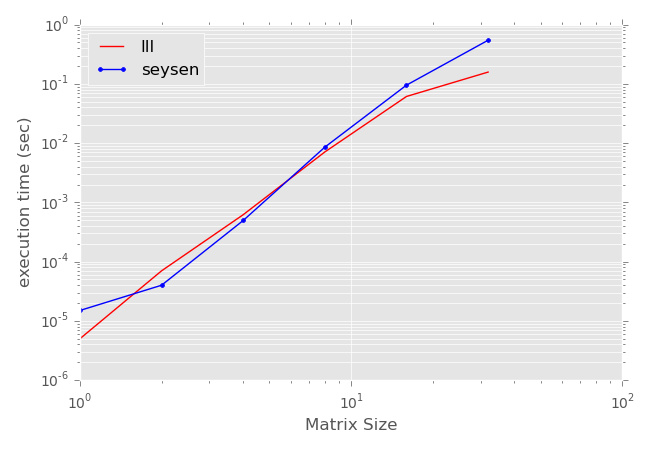
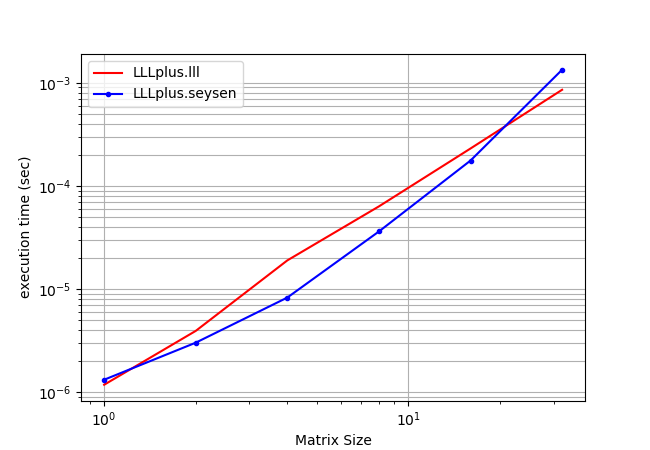
Updates for Julia 1.0
* Fixes bug (see #5) in hard_sphere which was not returning the right indices.
* Added more explicit description of the arguments to hard_sphere
* Updated benchmarks, README to match recent changes. Added .toml files

diff --git a/README.md b/README.md
@@ -1,7 +1,7 @@
 # LLLplus
 
 [![Build Status](https://travis-ci.org/christianpeel/LLLplus.jl.svg?branch=master)](https://travis-ci.org/christianpeel/LLLplus.jl)
-[![LLLplus](http://pkg.julialang.org/badges/LLLplus_release.svg)](http://pkg.julialang.org/?pkg=LLLplus&ver=0.6)
+[![LLLplus](http://pkg.julialang.org/badges/LLLplus_release.svg)](http://pkg.julialang.org/?pkg=LLLplus&ver=0.7)
 
 Lattice reduction and related lattice tools are used in wireless
 communication, cryptography, and mathematics.  This package provides
@@ -9,7 +9,7 @@ the following tools: Lenstra-Lenstra-Lovacsz (LLL) lattice reduction,
 Seysen lattice reduction, a sphere decoder, and VBLAST matrix
 decomposition. This package was created as a way to explore the Julia
 language, and is not intended to be a cannonical tool for lattice
-reduction; use at your own risk! :-)
+reduction; *use at your own risk!* :-)
 
 [LLL](https://en.wikipedia.org/wiki/Lenstra%E2%80%93Lenstra%E2%80%93Lov%C3%A1sz_lattice_basis_reduction_algorithm) [1]
 lattice reduction is a powerful tool in computer science that is used
@@ -57,11 +57,10 @@ M = 200;
 println("Testing VBLAST on $(M)x$(M) chunk of same matrix...")
 @time (W,P,B) = vblast(H[1:M,1:M]);
 
-# Time LLL, Seysen decompositions of a 100x100 Int128 matrix with
+# Time LLL, Seysen decompositions of a 100x100 Int64 matrix with
 # rand entries distributed uniformly between -100:100
 N = 100;
-H = zeros(Int64, N,N);
-rand!(-100:100, H);
+H = rand(-100:100,N,N);
 println("Testing LLL on $(N)x$(N) real matrix...")
 @time (B,T,Q,R) = lll(H);
 println("Testing Seysen on same $(N)x$(N) matrix...")
@@ -70,8 +69,8 @@ println("Testing Seysen on same $(N)x$(N) matrix...")
 
 ### Execution Time results
 
-On this page we give a few performance results from tests run on
-Travis-CI during normal CI tests:
+On this page we give a few performance results obtained from the
+following command in the top-level LLLplus directory:
 `julia -e 'include("benchmark/perftest.jl")'`
 In the tests we time execution of the lattice-reduction functions,
 average the results over multiple random matrices, and show results as
@@ -90,7 +89,7 @@ Though the focus of the package is on floating-point,
 all the modules can handle a variety of data types. In the next figure
 we show execution time for several datatypes (Int32, Int64,
 Int128, Float64, BitInt, and BigFloat) which are used to
-generate 10 4x4 matrices, over which execution time for the lattice
+generate 100 4x4 matrices, over which execution time for the lattice
 reduction techniques is averaged.  The vertical axis is a logarithmic
 representation of execution time as in the previous
 figure. ![Time vs data type](benchmark/perfVsDataTypeN16.png)
@@ -98,6 +97,8 @@ figure. ![Time vs data type](benchmark/perfVsDataTypeN16.png)
 ### Future
 
 Possible improvements include:
+* Change from "LLLplus" to "LLLtoy" or some such to emphasize
+  the nature of this package.
 * Add Block-Korkin-Zolotarev lattice redution, with improvements
     as in [4], and Brun lattice reduction 
 * The [SVP](http://www.latticechallenge.org/svp-challenge/) Challenge
